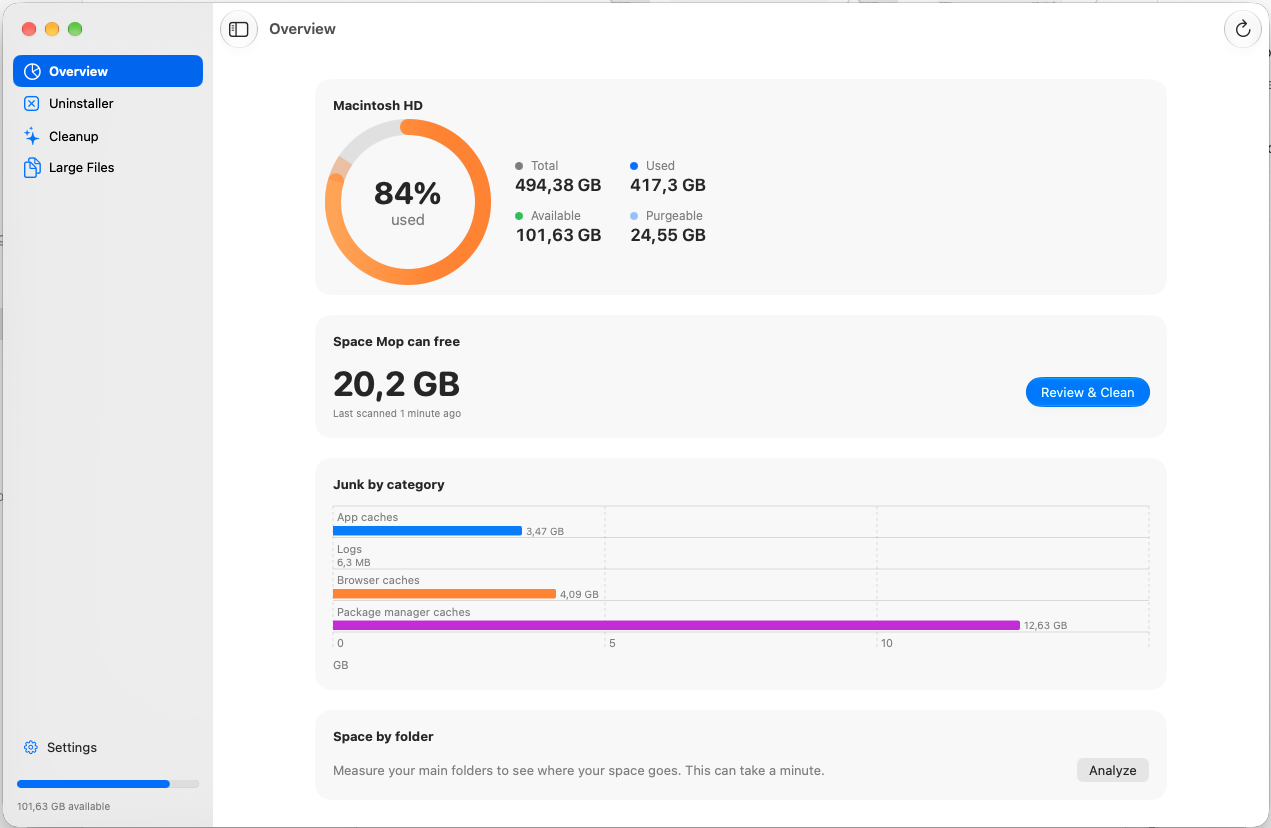
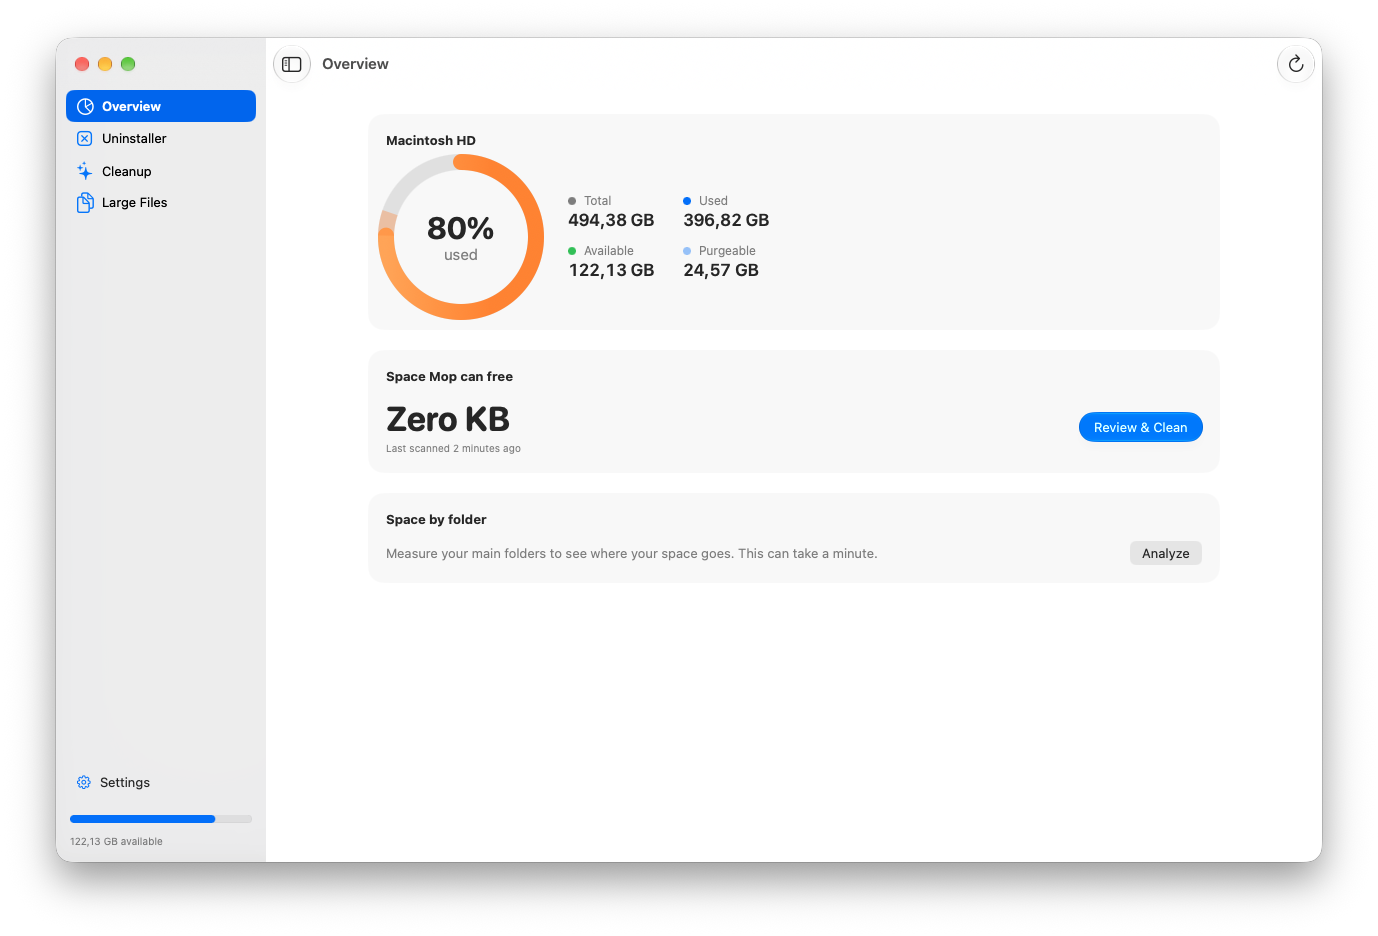
Update README screenshot

diff --git a/README.md b/README.md
@@ -12,7 +12,7 @@
 </p>
 
 <p align="center">
-  <img src="docs/overview.png" width="860" alt="Mop overview: disk usage, space Mop can free, and junk by category">
+  <img src="docs/overview.png" width="860" alt="Mop overview: disk usage, space Mop can free, and space by folder">
 </p>
 
 **Mop** is a free, open-source macOS app that keeps your disk clean:
